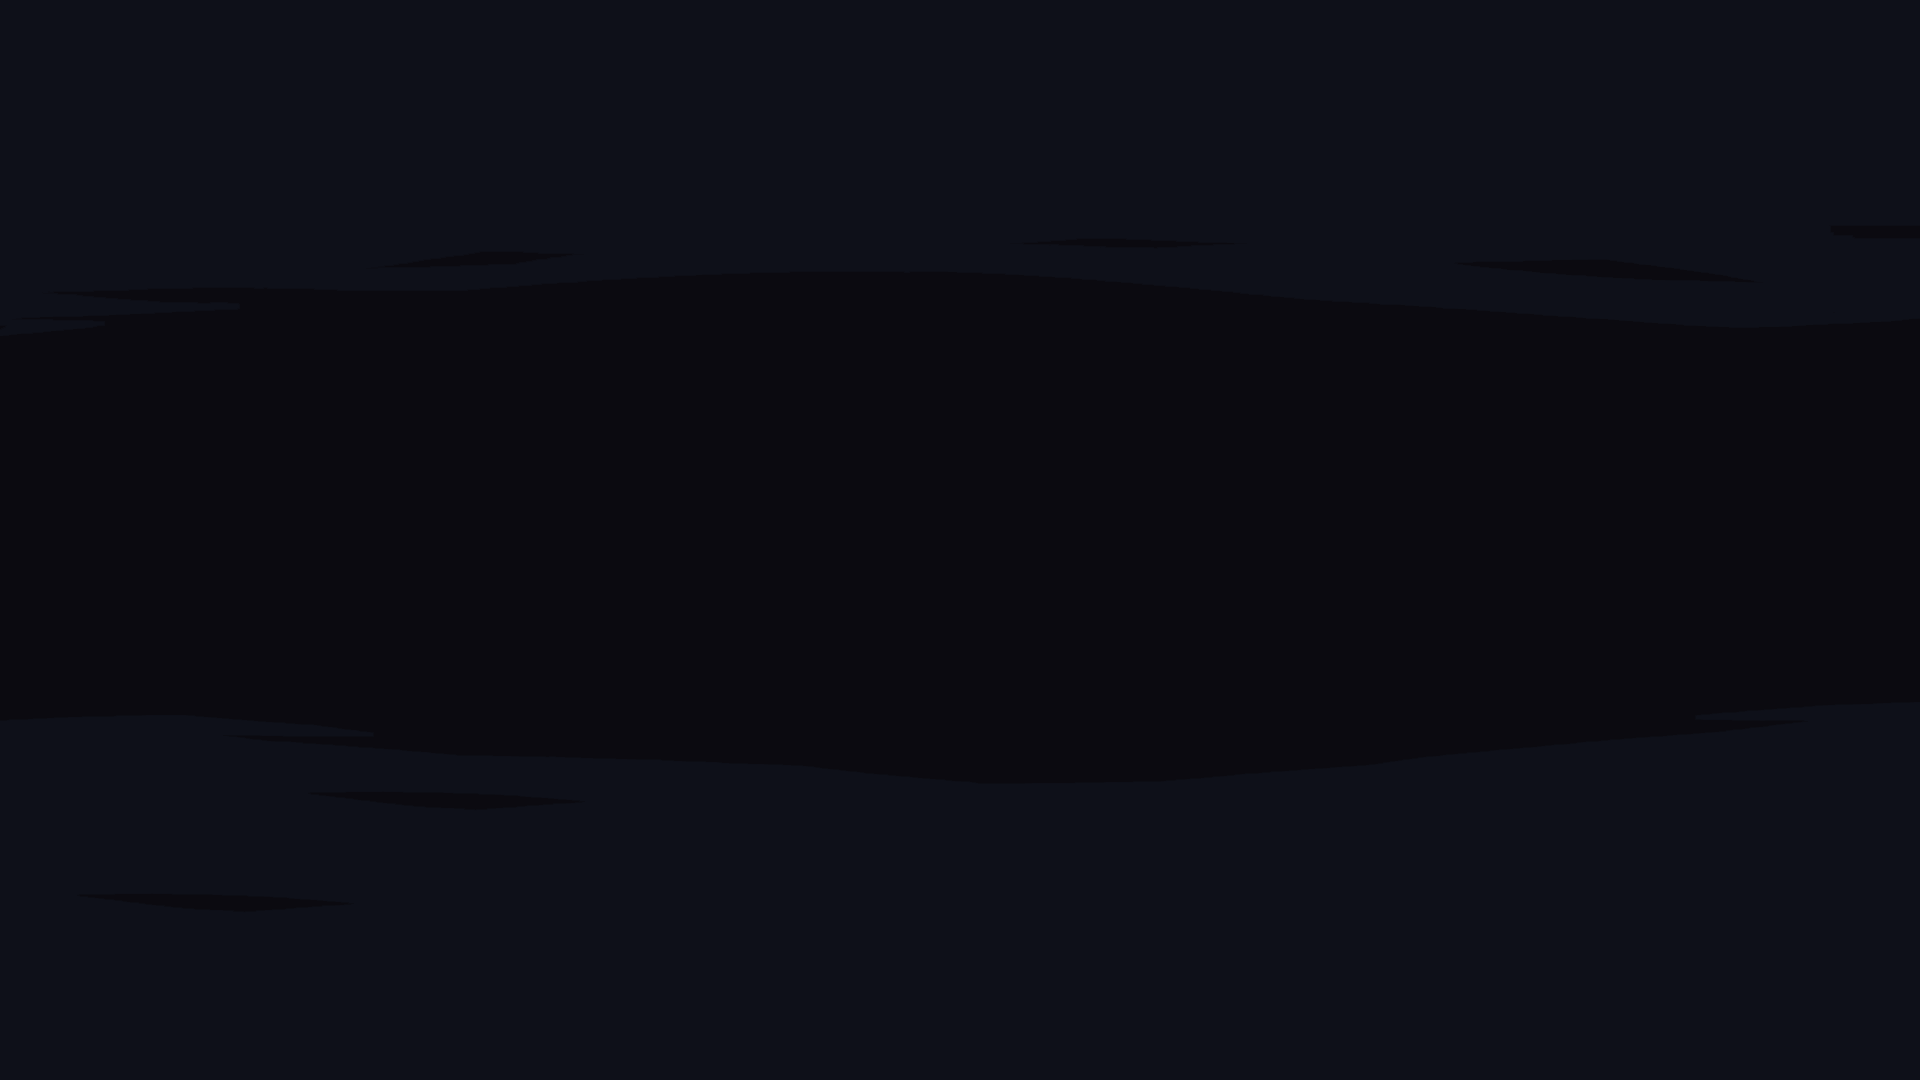
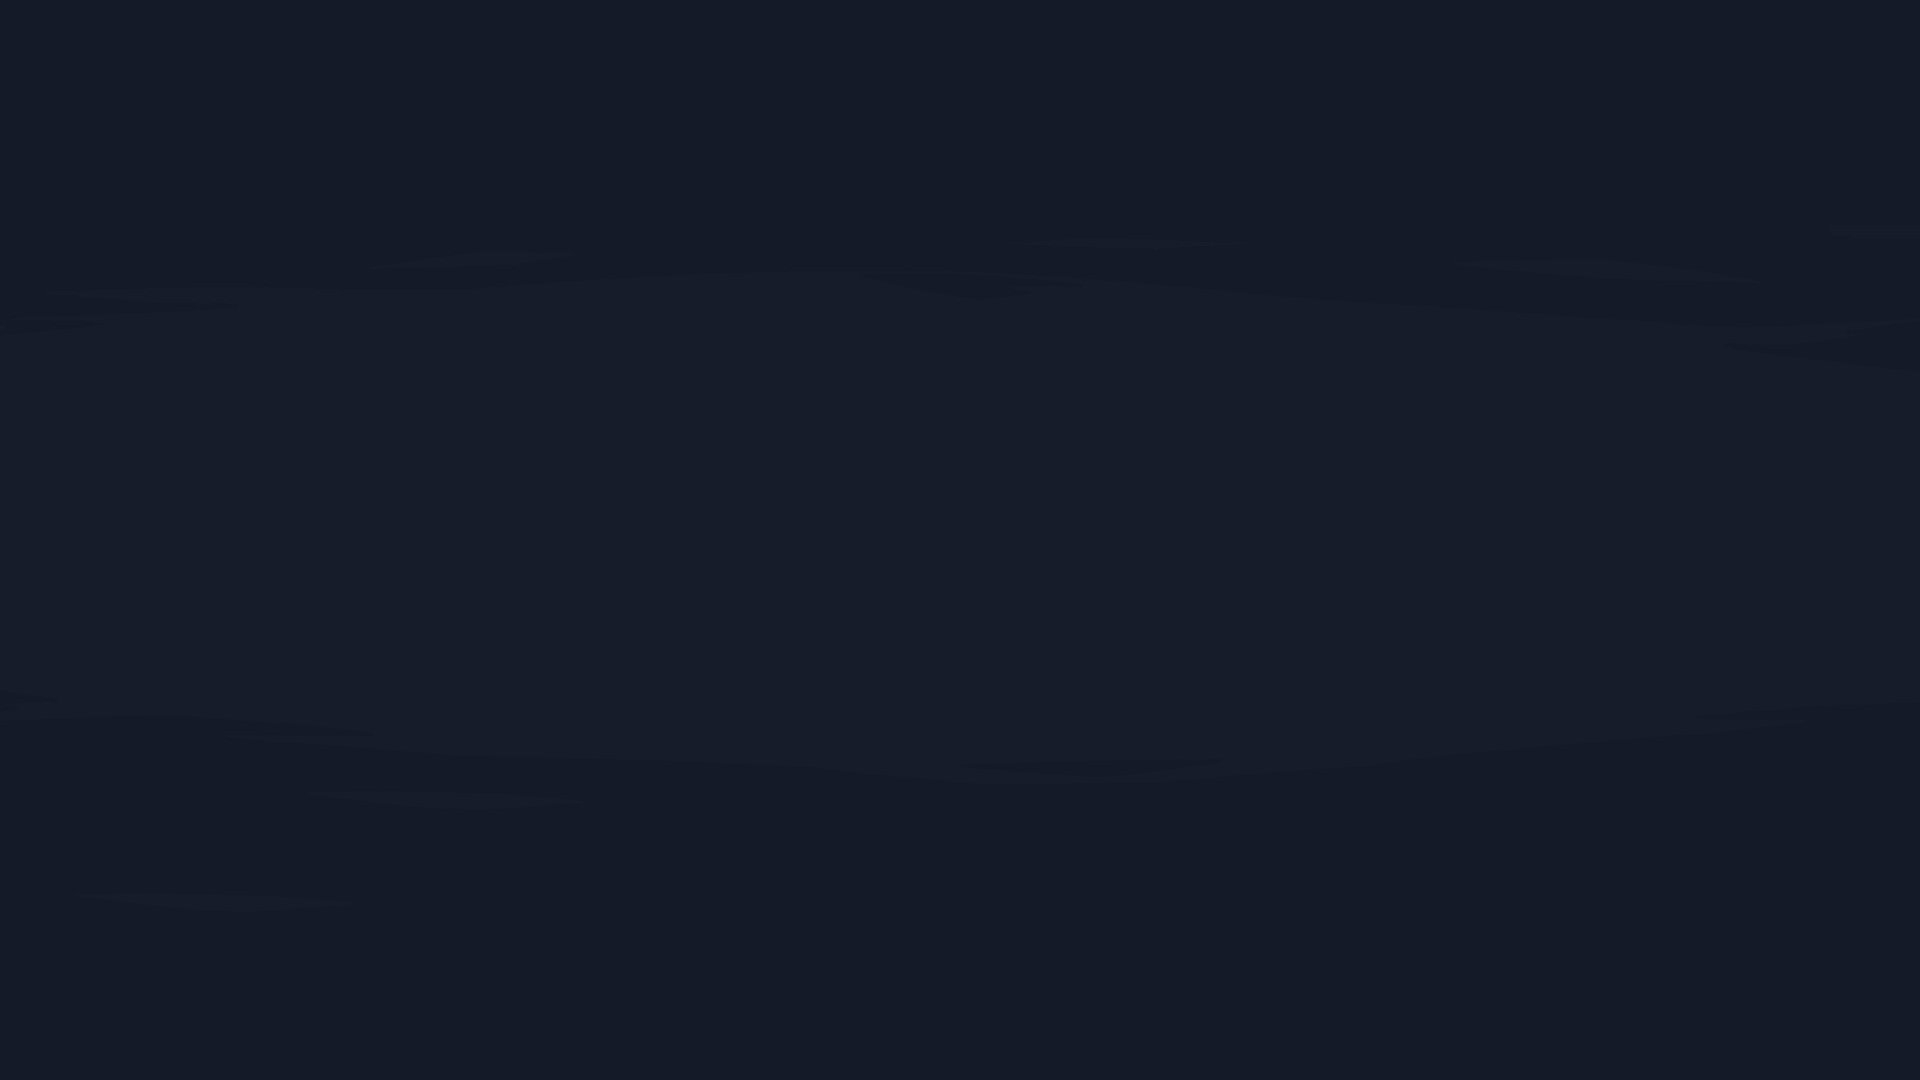
splash-art update

diff --git a/style.css b/style.css
@@ -66,7 +66,6 @@ justify-content: center;
  /* background-position: center;
     background-size: contain;
     background-repeat: no-repeat; */
-
 }
 #preloader_container{
   /* background-color: red; */
@@ -95,6 +94,13 @@ justify-content: center;
 }
 @media only screen and (max-width: 800px) {
   #splash_art img{ width: 35%!important; }
+
+  #splash_art {
+    background-size: auto;
+    background-position: inherit;
+    background-blend-mode: exclusion;
+}
+
   
 }
 
